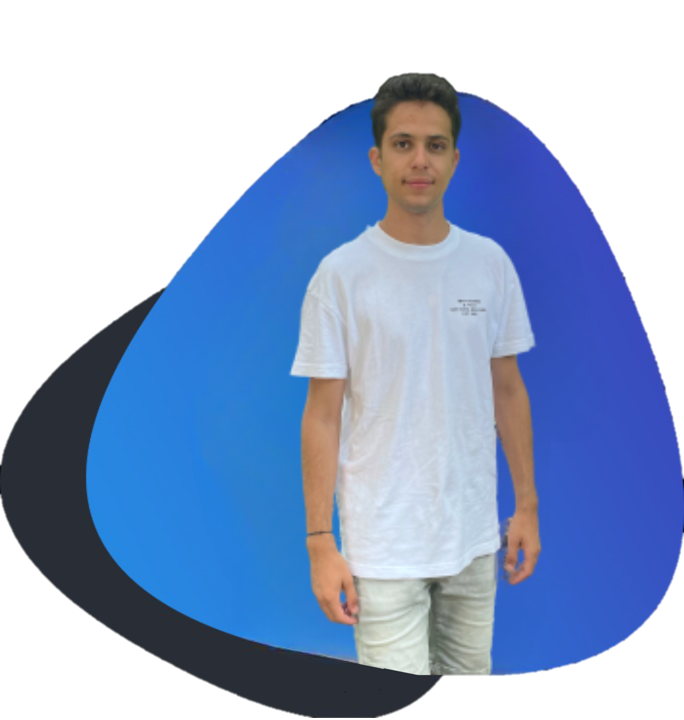
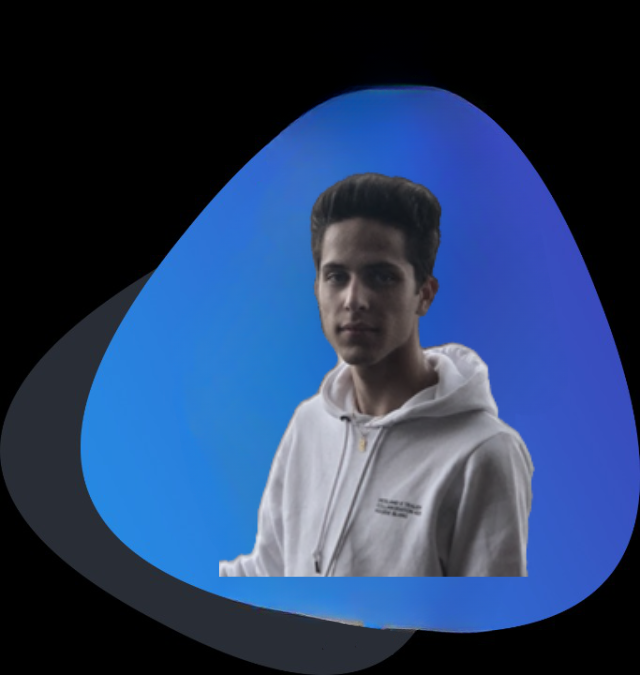
Changement photo esteban.png

diff --git a/index.html b/index.html
@@ -7,6 +7,8 @@
 
     <script src="https://kit.fontawesome.com/45280cb382.js" crossorigin="anonymous"></script>
 
+    <link rel="icon" type="image/x-icon" href="/images/favicon.ico">
+
     <link rel="stylesheet" href="style.css">
 </head>
 
